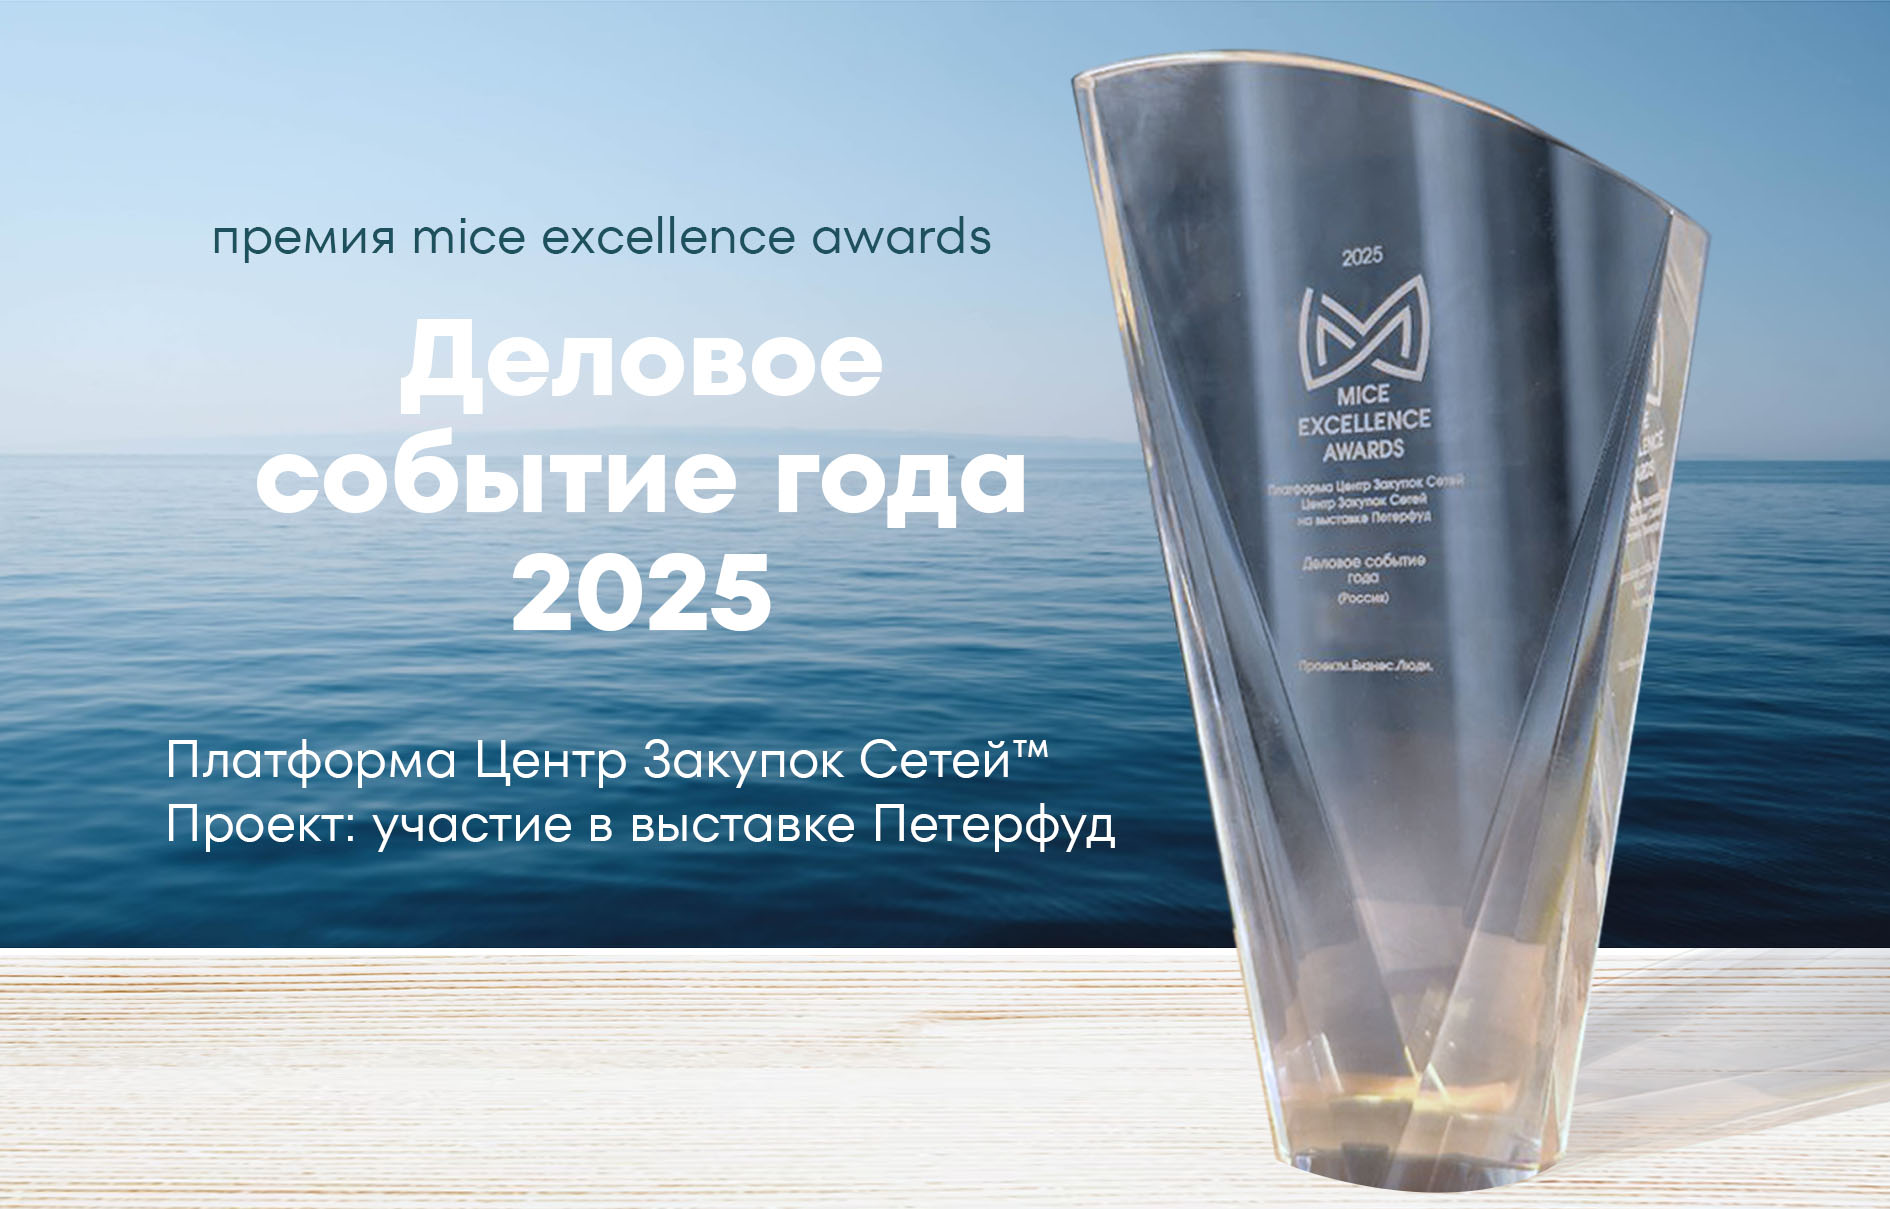
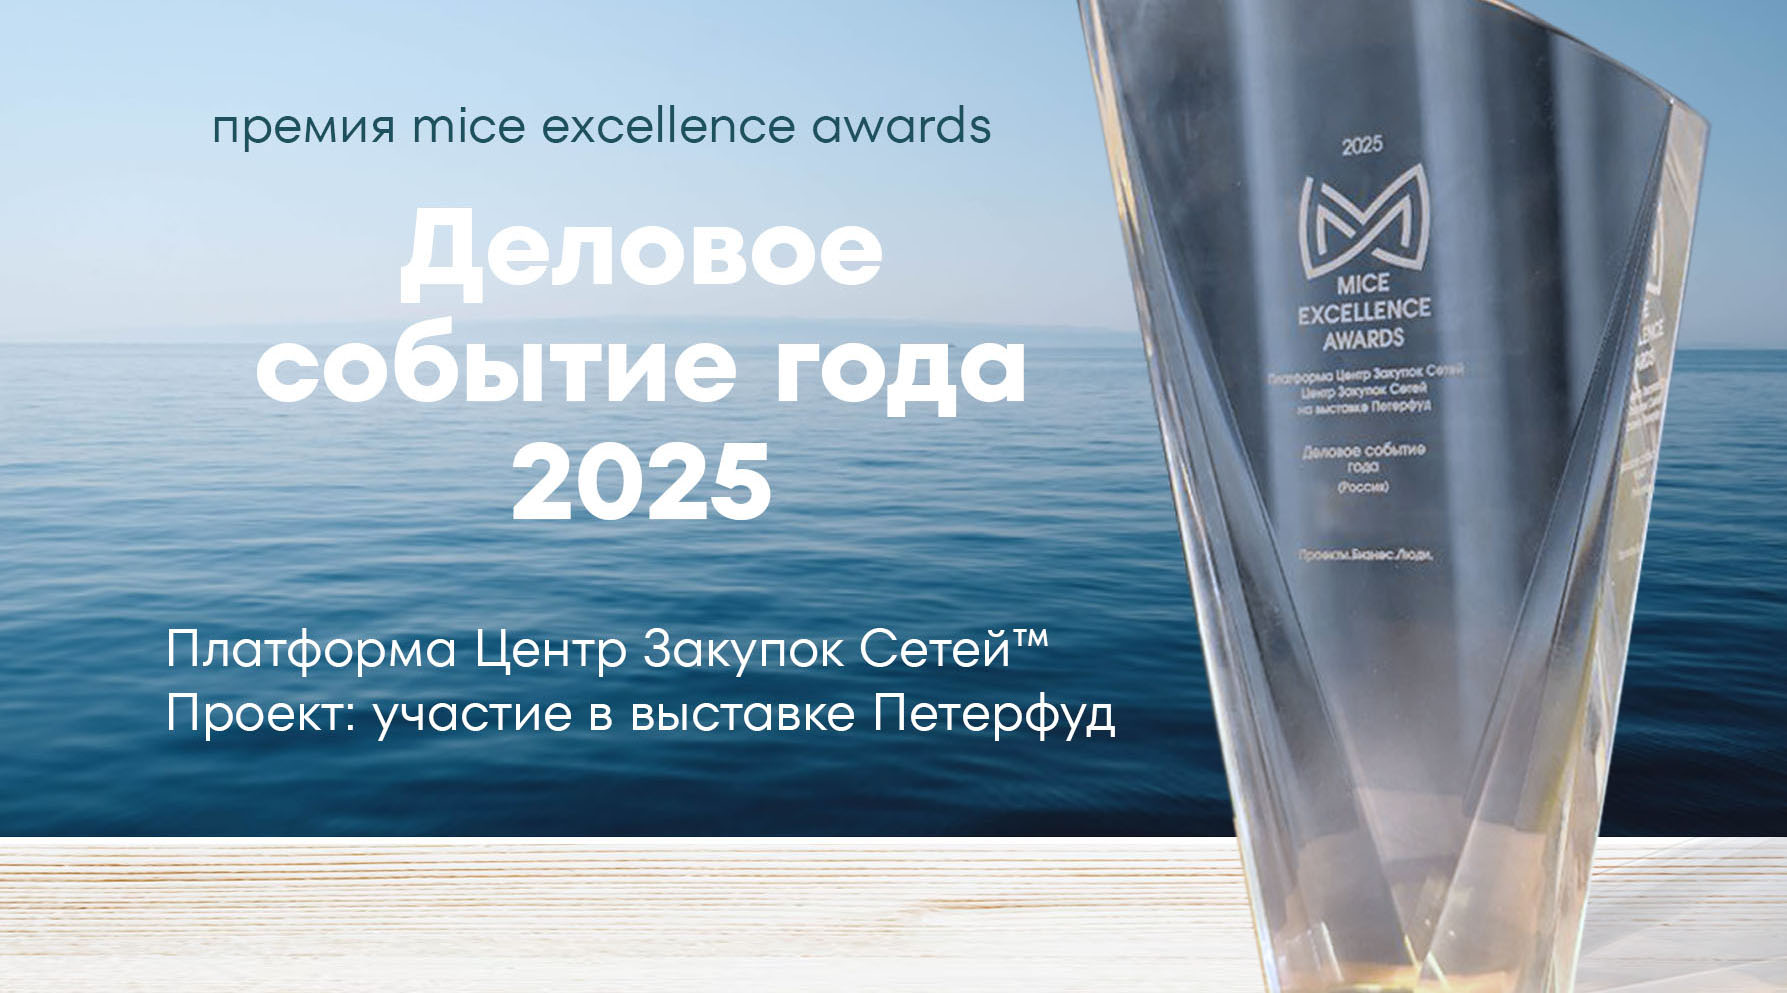
img

diff --git a/dashdoard/script.js b/dashdoard/script.js
@@ -44,6 +44,9 @@ let kp = document.querySelector('.kp-count');
 
 let i = 0;
 
+
+
+
 let intervals2 = setInterval(function () {
     let count = responsData.count[i];
     let countStr = count.toString();
@@ -54,14 +57,17 @@ let intervals2 = setInterval(function () {
         countResult = countStr.slice(0, -3) + ' ТЫС';
     } else if (count >= 1000000 && count < 1000000000) {
         // countResult = countStr.slice(0, -6) + ',' + countStr.slice(-6, -4) + ' МЛН';
-        countResult = countStr.slice(0, -6) + ' МЛН';
+         countResult = countStr.slice(0, -6) + ' МЛН';
     } else if (count >= 1000000000) {
         // countResult = countStr.slice(0, -9) + ',' + countStr.slice(-9, -7) + ' МЛРД';
         countResult = countStr.slice(0, -9) + ' МЛРД';
     } else {
         countResult = count;
     }
-    mainResult.innerHTML = countResult + ' ₽';
+    
+    // Анимация плавного появления
+    
+        
     allSum.innerHTML = responsData.finish[i];
     successSum.innerHTML = responsData.sucsess[i];
     users.innerHTML = responsData.all[i];
@@ -72,6 +78,7 @@ let intervals2 = setInterval(function () {
     procentSum.innerHTML += ' ' + procentData + '%';
     let successBlock = document.querySelector('.success-block');
     successBlock.style.setProperty('--p', procentData);
+    
     i++;
     if (i >= responsData.count.length) {
         i = 0;

diff --git a/dashdoard/css/style.css b/dashdoard/css/style.css
@@ -530,3 +530,7 @@ body {
         left: 1100px;
     }
 }
+
+#mainResult {
+    transition: opacity 1s ease-in-out;
+}
